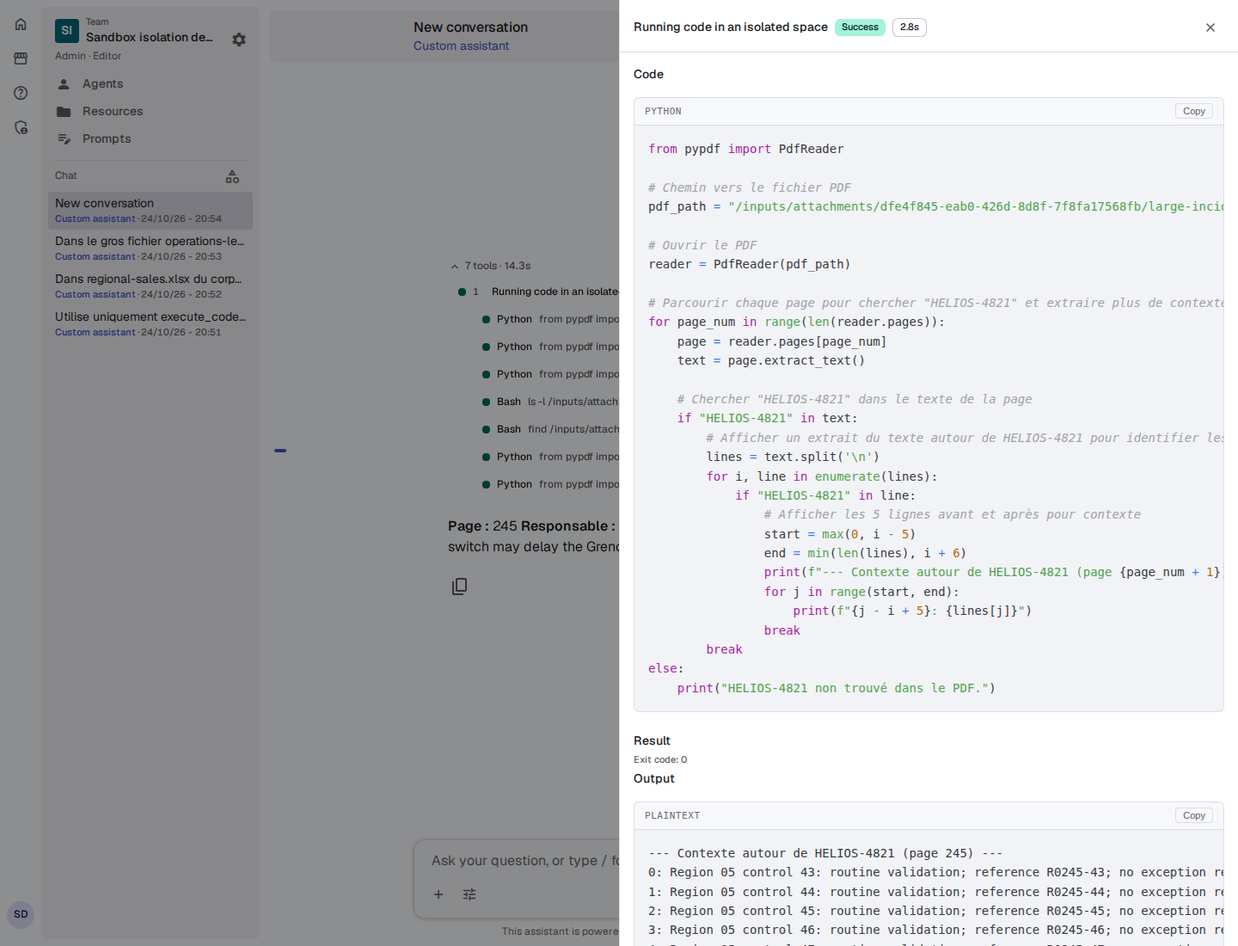
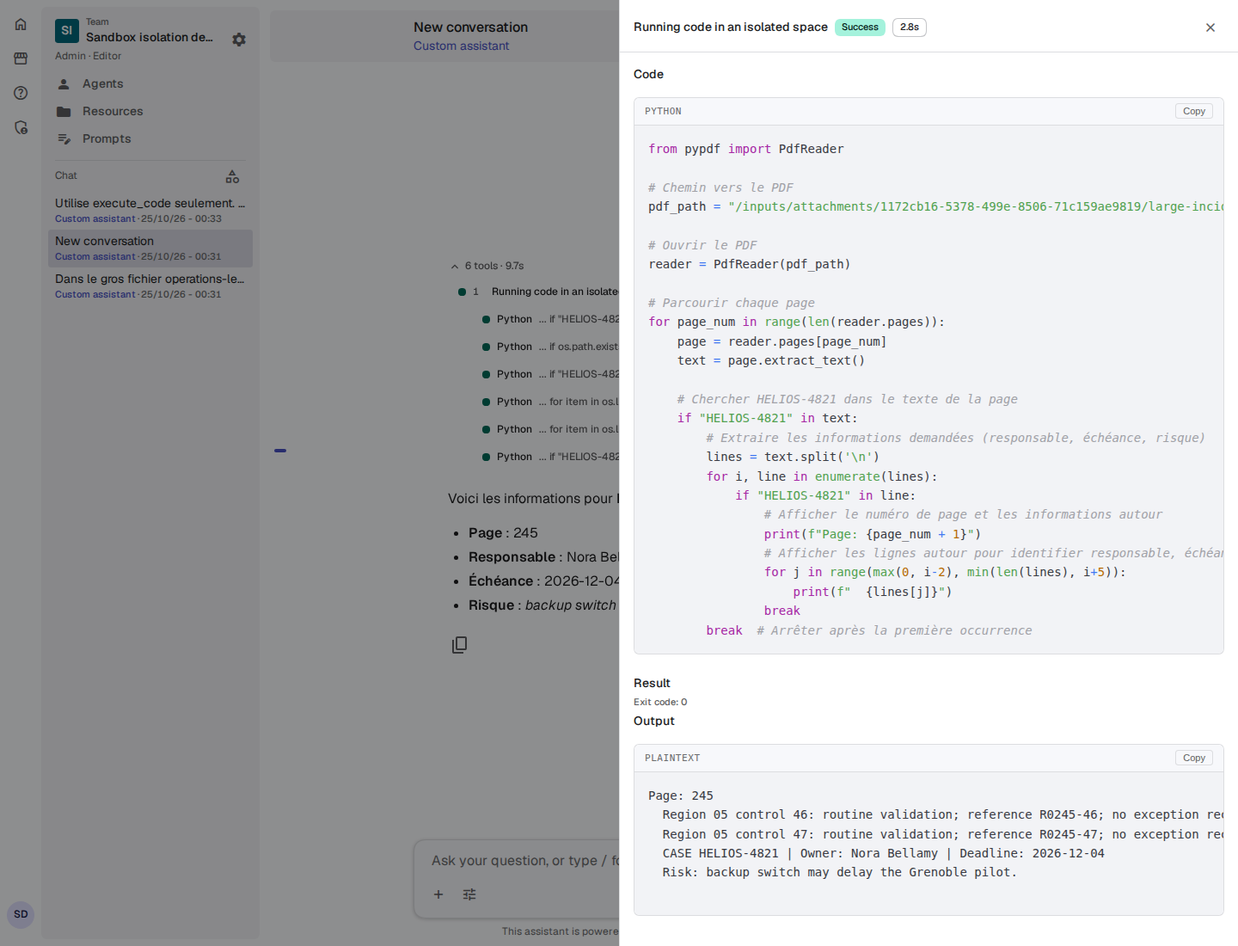
docs: refresh sandbox demo after clean k3d install

diff --git a/docs/agent-sandbox-stack.html b/docs/agent-sandbox-stack.html
@@ -154,7 +154,7 @@ document.addEventListener('DOMContentLoaded', function () {
 </script>
 
 <title>Fred agent sandbox stack</title>
-<section class="slide title" data-part="0"><p class="kicker">Architecture Fred - 24 octobre 2026</p><h1>Exécuter du code agent dans une sandbox isolée</h1><p class="lede">La stack livrée, ses frontières de sécurité, ses coûts, ses mesures et le montage de fichiers.</p><div class="body"><div class="meta"><span>Revue technique · 45 min</span><span>PR #3233</span><span>Prototype k3d gVisor</span></div><div class="chips"><span class="chip c1">fred-sdk</span><span class="chip c2">capability</span><span class="chip c3">fred-runtime</span><span class="chip c4">fred-agents</span><span class="chip c5">sandbox-broker</span><span class="chip c6">control-plane</span><span class="chip c7">frontend</span><span class="chip c8">deploy</span></div></div></section>
+<section class="slide title" data-part="0"><p class="kicker">Architecture Fred - 25 octobre 2026</p><h1>Exécuter du code agent dans une sandbox isolée</h1><p class="lede">La stack livrée, ses frontières de sécurité, ses coûts, ses mesures et le montage de fichiers.</p><div class="body"><div class="meta"><span>Revue technique · 45 min</span><span>PR #3233</span><span>Prototype k3d gVisor</span></div><div class="chips"><span class="chip c1">fred-sdk</span><span class="chip c2">capability</span><span class="chip c3">fred-runtime</span><span class="chip c4">fred-agents</span><span class="chip c5">sandbox-broker</span><span class="chip c6">control-plane</span><span class="chip c7">frontend</span><span class="chip c8">deploy</span></div></div></section>
 <section class="slide" data-part="0"><p class="kicker">Plan</p><h2>Du besoin agent aux décisions de production</h2><p class="lede">Cinq parties pour relier le comportement visible, le code et les limites mesurées.</p><div class="body agenda"><div><div class="n">1</div><h3>Contexte</h3><p>Pourquoi l'agent a besoin d'un exécuteur séparé</p><small>slides 3-5</small></div><div><div class="n">2</div><h3>Architecture</h3><p>Contrats, runtimes, session et coût</p><small>slides 6-12</small></div><div><div class="n">3</div><h3>Code</h3><p>Touchpoints par sous-projet</p><small>slides 13-23</small></div><div><div class="n">4</div><h3>Preuves</h3><p>Sécurité, latence et fichiers</p><small>slides 24-31</small></div><div><div class="n">5</div><h3>Suite</h3><p>Découpage pour la production</p><small>slides 32-38</small></div></div></section>
 <section class="slide divider" data-part="1"><p class="kicker">Partie 1</p><div class="body"><div class="n">1</div><h1>L'agent obtient un outil, pas un accès hôte</h1></div><div class="contents"><span><b>1</b>Avant / après pour le modèle</span><span><b>2</b>Vocabulaire et taille du problème</span></div></section>
 <section class="slide" data-part="1"><p class="kicker">Partie 1</p><h2>Avant, le scratchpad ne pouvait pas exécuter du code</h2><p class="lede">Le changement visible est un outil Bash/Python avec un résultat borné.</p><div class="body"><div class="body duo"><div class="panel"><h3>Avant · Deep scratchpad</h3><pre><span class="line">/scratchpad/ : texte seulement</span><span class="line">Pas de shell ni de Python</span><span class="line">Pas de fichiers exécutables</span></pre></div><div class="panel"><h3>Après · outil agent</h3><pre><span class="line add">execute_code(language, code)</span><span class="line">language = bash | python</span><span class="line">exit_code, stdout, stderr</span><span class="line">ou error_code borné</span></pre></div></div><div class="notes">Le schéma LLM contient uniquement la langue et le code. Identité, URL et jeton restent hors de ses arguments.</div></div><p class="takeaway">La capability est activée par les droits admin habituels de Fred.</p></section>
@@ -173,7 +173,7 @@ document.addEventListener('DOMContentLoaded', function () {
 <section class="slide divider" data-part="3"><p class="kicker">Partie 3</p><div class="body"><div class="n">3</div><h1>Chaque couche a une responsabilité mesurable</h1></div><div class="contents"><span><b>1</b>Contrats et capability</span><span><b>2</b>Broker et isolation</span><span><b>3</b>Admin et déploiement</span></div></section>
 <section class="slide" data-part="3"><p class="kicker">Partie 3</p><h2>Le SDK fixe un contrat indépendant du backend</h2><p class="lede">Une demande Bash/Python, une identité privée, un résultat borné et un port abstrait.</p><div class="body"><div class="grid cols3"><div class="card add"><span class="tag">+</span><b class="name">SandboxRequest</b><small><span class="chip c1">fred-sdk</span> <code>fred_sdk/contracts/sandbox.py:16</code></small><p>language limité; code limité à 16 384 caractères.</p></div><div class="card add"><span class="tag">+</span><b class="name">SandboxSessionIdentity</b><small><span class="chip c1">fred-sdk</span> <code>fred_sdk/contracts/sandbox.py:23</code></small><p>user, team et conversation restent hors du schéma LLM.</p></div><div class="card add"><span class="tag">+</span><b class="name">SandboxResult</b><small><span class="chip c1">fred-sdk</span> <code>fred_sdk/contracts/sandbox.py:32</code></small><p>stdout, stderr, timeout et sortie tronquée.</p></div><div class="card add"><span class="tag">+</span><b class="name">SandboxError</b><small><span class="chip c1">fred-sdk</span> <code>fred_sdk/contracts/sandbox.py:43</code></small><p>Codes bornés, pas de traceback brut vers le modèle.</p></div><div class="card add"><span class="tag">+</span><b class="name">SandboxExecutionPort</b><small><span class="chip c1">fred-sdk</span> <code>fred_sdk/contracts/sandbox.py:61</code></small><p>execute(request, session) rend le backend interchangeable.</p></div><div class="card add"><span class="tag">+</span><b class="name">Tests du contrat</b><small><span class="chip c1">fred-sdk</span> <code>tests/test_sandbox_contract.py</code></small><p>Validation stricte des modèles et du port.</p></div></div></div></section>
 <section class="slide" data-part="3"><p class="kicker">Partie 3</p><h2>La capability expose un outil administré</h2><p class="lede">Le modèle ne choisit ni image, ni runtime, ni ressource.</p><div class="body"><div class="grid cols3"><div class="card add"><span class="tag">+</span><b class="name">CodeSandboxCapability</b><small><span class="chip c2">capability</span> <code>fred_capability_code_sandbox/capability.py:32</code></small><p>ID code_sandbox, TeamScopePolicy.ADMIN_GATED.</p></div><div class="card add"><span class="tag">+</span><b class="name">execute_code</b><small><span class="chip c2">capability</span> <code>fred_capability_code_sandbox/capability.py:46</code></small><p>Arguments language et code uniquement; démarre le workload au premier appel.</p></div><div class="card add"><span class="tag">+</span><b class="name">Session privée</b><small><span class="chip c2">capability</span> <code>fred_capability_code_sandbox/capability.py:55</code></small><p>Dérivée de ctx.identity, jamais demandée au modèle.</p></div><div class="card add"><span class="tag">+</span><b class="name">Résultat outil</b><small><span class="chip c2">capability</span> <code>fred_capability_code_sandbox/capability.py:72</code></small><p>JSON explicite; sortie considérée comme donnée non fiable.</p></div><div class="card add"><span class="tag">+</span><b class="name">Vue automatique /inputs</b><small><span class="chip c2">capability</span> <code>fred_capability_code_sandbox/capability.py</code></small><p>La vue est préparée avant le premier execute_code; /inputs/corpus et /inputs/attachments sont listés automatiquement.</p></div><div class="card add"><span class="tag">+</span><b class="name">Tests capability</b><small><span class="chip c2">capability</span> <code>tests/test_capability.py</code></small><p>Fake port, schéma et préparation de la vue autorisée.</p></div></div></div></section>
-<section class="slide" data-part="3"><p class="kicker">Partie 3 - recherche par code</p><h2>Filtrer dans la sandbox avant de répondre</h2><p class="lede">La consigne demande à l'agent d'écrire du Bash ou du Python dans execute_code et de ne renvoyer que des extraits ciblés.</p><div class="body"><div class="grid cols3"><div class="card add"><h3>Découvrir</h3><p>Un glob ou find restreint les noms et les répertoires. Éviter l'inventaire complet de /inputs.</p></div><div class="card add"><h3>Texte</h3><p>La consigne propose grep -F pour les termes littéraux et Python pour cinq extraits de 240 caractères au plus.</p></div><div class="card add"><h3>Variantes</h3><p>Échapper les termes avant la regex, puis accepter espaces, tirets et underscores; ignorer la casse.</p></div><div class="card sec"><h3>Documents</h3><p>Inspecter pages, paragraphes ou slides un à un. N'imprimer que les extraits trouvés et leur emplacement.</p></div><div class="card sec"><h3>Tables</h3><p>Filtrer lignes et colonnes CSV; ouvrir Excel en lecture seule, puis agréger les seules lignes utiles.</p></div><div class="card same"><h3>Présentation</h3><p>La trace regroupe le code consécutif; chaque ligne commence par Bash ou Python suivi d'un extrait tronqué et garde son détail. Un autre outil coupe le groupe.</p></div></div></div></section>
+<section class="slide" data-part="3"><p class="kicker">Partie 3 - recherche par code</p><h2>Filtrer dans la sandbox avant de répondre</h2><p class="lede">La consigne demande à l'agent d'écrire du Bash ou du Python dans execute_code et de ne renvoyer que des extraits ciblés.</p><div class="body"><div class="grid cols3"><div class="card add"><h3>Découvrir</h3><p>Un glob ou find restreint les noms et les répertoires. Éviter l'inventaire complet de /inputs.</p></div><div class="card add"><h3>Texte</h3><p>La consigne propose grep -F pour les termes littéraux et Python pour cinq extraits de 240 caractères au plus.</p></div><div class="card add"><h3>Variantes</h3><p>Échapper les termes avant la regex, puis accepter espaces, tirets et underscores; ignorer la casse.</p></div><div class="card sec"><h3>Documents</h3><p>Inspecter pages, paragraphes ou slides un à un. N'imprimer que les extraits trouvés et leur emplacement.</p></div><div class="card sec"><h3>Tables</h3><p>Filtrer lignes et colonnes CSV; ouvrir Excel en lecture seule, puis agréger les seules lignes utiles.</p></div><div class="card same"><h3>Présentation</h3><p>La trace regroupe les appels de code consécutifs. Bash ou Python précède une ligne de recherche ou de filtrage; ... signale le code omis. Le détail conserve le code et le résultat complets. Un autre outil coupe le groupe.</p></div></div></div></section>
 <section class="slide" data-part="3"><p class="kicker">Partie 3</p><h2>Le runtime crée un adaptateur HTTP privé</h2><p class="lede">Le runtime garde l’autorisation des outils et ajoute le broker comme service optionnel.</p><div class="body"><div class="grid cols3"><div class="card add"><span class="tag">+</span><b class="name">SandboxHttpAdapter</b><small><span class="chip c3">fred-runtime</span> <code>fred_runtime/sandbox_http.py:23</code></small><p>HTTPS + bearer; validation de réponse et erreurs bornées.</p></div><div class="card add"><span class="tag">+</span><b class="name">Configuration</b><small><span class="chip c3">fred-runtime</span> <code>fred_runtime/sandbox_http.py:59</code></small><p>URL et token viennent de l’environnement du pod.</p></div><div class="card add"><span class="tag">+</span><b class="name">Service binding</b><small><span class="chip c3">fred-runtime</span> <code>fred_runtime/app/agent_app.py:6740</code></small><p>Injecte le port lors de l’activation des capabilities.</p></div><div class="card add"><span class="tag">+</span><b class="name">Runtime context</b><small><span class="chip c3">fred-runtime</span> <code>fred_runtime/runtime_context.py</code></small><p>Transporte l’identité de conversation sans argument LLM.</p></div><div class="card add"><span class="tag">+</span><b class="name">Tests HTTP</b><small><span class="chip c3">fred-runtime</span> <code>tests/test_sandbox_http.py</code></small><p>Vérifient transport et erreurs.</p></div><div class="card same"><span class="tag">=</span><b class="name">Contrat gelé</b><small><span class="chip c3">fred-runtime</span> <code>docs/swift/design/RUNTIME-EXECUTION-CONTRACT.md</code></small><p>Le pod reste l’autorité des droits d’exécution Fred.</p></div></div></div></section>
 <section class="slide" data-part="3"><p class="kicker">Partie 3</p><h2>Le pod agents installe la capability</h2><p class="lede">L’entrée de découverte reste unique pour ReAct, Deep et Graph.</p><div class="body"><div class="grid cols3"><div class="card add"><span class="tag">+</span><b class="name">Dépendance</b><small><span class="chip c4">fred-agents</span> <code>pyproject.toml:25</code></small><p>Le package capability entre dans l’image agents.</p></div><div class="card add"><span class="tag">+</span><b class="name">Source editable</b><small><span class="chip c4">fred-agents</span> <code>pyproject.toml:73</code></small><p>Le workspace relie le package local.</p></div><div class="card add"><span class="tag">+</span><b class="name">Image</b><small><span class="chip c4">fred-agents</span> <code>dockerfiles/Dockerfile-prod</code></small><p>Le Dockerfile copie et installe la capability.</p></div><div class="card add"><span class="tag">+</span><b class="name">Boot invariant</b><small><span class="chip c4">fred-agents</span> <code>tests/test_capability_boot.py:126</code></small><p>Le test de découverte épingle code_sandbox.</p></div><div class="card add"><span class="tag">+</span><b class="name">Configuration runtime</b><small><span class="chip c4">fred-agents</span> <code>dockerfiles/Dockerfile-prod</code></small><p>Endpoint broker et bearer restent côté pod.</p></div></div></div></section>
 <section class="slide" data-part="3"><p class="kicker">Partie 3</p><h2>Le broker borne chaque lease et chaque exécution</h2><p class="lede">Son interface interne est preflight, prepare, execute, dispose.</p><div class="body"><div class="grid cols4"><div class="card add"><span class="tag">+</span><b class="name">API</b><small><span class="chip c5">sandbox-broker</span> <code>sandbox_broker/api.py:33</code></small><p>Bearer, tailles et admission.</p></div><div class="card add"><span class="tag">+</span><b class="name">Backend protocol</b><small><span class="chip c5">sandbox-broker</span> <code>sandbox_broker/backend.py:27</code></small><p>Une lease typée pour trois implémentations.</p></div><div class="card add"><span class="tag">+</span><b class="name">ConversationPool</b><small><span class="chip c5">sandbox-broker</span> <code>sandbox_broker/sessions.py:29</code></small><p>Sérialisation et idle expiry.</p></div><div class="card add"><span class="tag">+</span><b class="name">Process sweep</b><small><span class="chip c5">sandbox-broker</span> <code>sandbox_broker/process_cleanup.py:39</code></small><p>Détruit les descendants détachés avant réusage.</p></div><div class="card add"><span class="tag">+</span><b class="name">Kubernetes Job</b><small><span class="chip c5">sandbox-broker</span> <code>sandbox_broker/kubernetes_backend.py:23</code></small><p>RuntimeClass, deadline et TTL.</p></div><div class="card add"><span class="tag">+</span><b class="name">SIG Agent Sandbox</b><small><span class="chip c5">sandbox-broker</span> <code>sandbox_broker/agent_sandbox_backend.py:21</code></small><p>Claim, pool upstream et expiry.</p></div><div class="card add"><span class="tag">+</span><b class="name">Docker</b><small><span class="chip c5">sandbox-broker</span> <code>sandbox_broker/docker_backend.py:18</code></small><p>Runtime isolé et réseau none.</p></div><div class="card add"><span class="tag">+</span><b class="name">WarmPool</b><small><span class="chip c5">sandbox-broker</span> <code>sandbox_broker/pool.py:21</code></small><p>Capacité non assignée, optionnelle.</p></div></div></div></section>
@@ -189,7 +189,7 @@ document.addEventListener('DOMContentLoaded', function () {
 <section class="slide" data-part="4"><p class="kicker">Partie 4</p><h2>Trois limites séparent le pilote de la prod</h2><p class="lede">Le code et la spec s’accordent sur les principaux risques non résolus.</p><div class="body"><div class="body split"><table><thead><tr><th>Point</th><th>État présent</th><th>Suite</th></tr></thead><tbody><tr><td>Admission distribuée</td><td>1 replica broker</td><td>Coordinator + quotas équipe</td></tr><tr><td>Reprise après crash</td><td>Mapping session en mémoire</td><td>Réattachement ou purge fiable</td></tr><tr><td>Kata sur s3ns</td><td>Non mesuré</td><td>Préflight KVM + benchmark</td></tr><tr><td>CSI sur cluster cible</td><td>Test k3d gVisor seul</td><td>Test volume Kata/gVisor réel</td></tr></tbody></table><div class="notes"><h3>Lecture</h3><p>La CI et le benchmark k3d valident le pilote, pas l’isolation ni le coût à 2 000 utilisateurs sur le cluster cible.</p></div></div><p class="takeaway">Le prochain incrément doit résoudre l’admission et la reprise avant plusieurs brokers.</p></div></section>
 <section class="slide" data-part="4"><p class="kicker">Partie 4 - fichiers</p><h2>Le montage expose une vue, pas le stockage entier</h2><p class="lede">Les fichiers restent dans leurs stores; rclone CSI monte une vue WebDAV en lecture seule.</p><div class="body"><div class="grid cols3"><div class="card sec"><h3>/inputs/corpus</h3><p>Bibliothèques documentaires du propriétaire de la conversation, puis permission READ sur chaque document. Pages de 128 candidats sous deux niveaux fixes block-XX.</p></div><div class="card sec"><h3>/inputs/attachments</h3><p>Originaux des pièces jointes de cette conversation et de cet utilisateur, au plus 32 fichiers. Une nouvelle pièce jointe apparaît après rafraîchissement du cache CSI.</p></div><div class="card sec"><h3>/skills et /work</h3><p>Skills approuvés issus du même stockage que le catalogue / de Fred, montés en lecture seule. Le script Python d'un skill peut lire /inputs et écrire seulement dans le scratch /work.</p></div></div><div class="notes">Knowledge Flow contrôle le propriétaire réel de la bibliothèque, le type DOCUMENT, les droits du document et la session. La vue échoue fermée sans ReBAC; les appels de code simultanés ouvrent la même vue de façon atomique. Chaque fichier est limité à 20 MiB; une vue à 100 MiB lus et 600 requêtes WebDAV par minute.</div></div><p class="takeaway">Le guest ne reçoit ni credentials du corpus ni accès à d'autres conversations.</p></section>
 <section class="slide" data-part="4"><p class="kicker">Partie 4 - exécution</p><h2>Une image Python approuvée étend les skills</h2><p class="lede">Le Dockerfile reste une composition légère de bibliothèques, pas un mécanisme d'isolation.</p><div class="body"><div class="grid cols3"><div class="card add"><h3>Image documents</h3><p>Python 3.12 slim, uv, pypdf, python-docx, python-pptx, openpyxl, pandas et duckdb. Digest poussé dans la registry k3d.</p></div><div class="card add"><h3>Tool minimal</h3><p>execute_code reçoit seulement language et code. Bash et Python peuvent lire les montages et appeler le script d'un skill; le détail affiche code et résultat.</p></div><div class="card mod"><h3>Différence observée</h3><p>Small 4 choisit csv standard et corrige un mauvais calcul Excel au second tour. Medium 3.5 choisit pandas et calcule la marge pondérée juste au premier tour.</p></div></div><div class="notes">Sans indice sur les bibliothèques disponibles, les deux modèles ont raté le premier PDF. Après mise à jour de la description de la capability, ils utilisent pypdf et répondent correctement. Les deux choisissent grep pour un gros fichier texte.</div></div><p class="takeaway">Voir les conversations et détails d'outil dans <a href="swift/ops/agent-sandbox-demo/README.md">le rapport Playwright</a>.</p></section>
-<section class="slide" data-part="4"><p class="kicker">Partie 4 - preuve et limites</p><h2>Le cluster recréé teste la chaîne complète</h2><p class="lede">k3d-up, gVisor, SIG Agent Sandbox, rclone CSI, broker, Fred et conversations réelles.</p><div class="body"><div class="grid cols3"><div class="card add"><h3>À la demande</h3><p>WarmPool SIG à zéro. Une sandbox par conversation active, supprimée après 20 minutes sans exécution par défaut; le réglage est administrable.</p></div><div class="card add"><h3>Lecture prouvée</h3><p>Corpus texte, DOCX, PDF, PPTX, XLSX, CSV, pièce jointe et skill Python ont produit des réponses vérifiables via le montage.</p></div><div class="card mod"><h3>Isolation sondée</h3><p>Large 4 n'a pas trouvé de token Kubernetes, de socket Docker ni de pièce jointe d'une autre conversation; les écritures dans /inputs et /skills ont échoué.</p></div></div><div class="notes">Ces tests locaux ne prouvent pas l'isolation de s3ns ou AKS. Avant production, vérifier le CNI NetworkPolicy, RuntimeClass Kata ou gVisor, CSI, limites de processus et admission sous charge sur chaque cluster cible. Le broker unique et son état en mémoire restent à durcir pour la HA.</div></div><p class="takeaway">Les captures chat et tool detail accompagnent chaque scénario dans le rapport.</p></section>
+<section class="slide" data-part="4"><p class="kicker">Partie 4 - preuve et limites</p><h2>Le cluster recréé teste la chaîne complète</h2><p class="lede">Installation rejouée depuis zéro par make k3d-wipe, k3d-up, k3d-sandbox-smoke, k3d-sandbox-files-demo et k3d-app; puis conversations réelles.</p><div class="body"><div class="grid cols3"><div class="card add"><h3>À la demande</h3><p>WarmPool SIG à zéro. Une sandbox par conversation active, supprimée après 20 minutes sans exécution par défaut; le réglage est administrable.</p></div><div class="card add"><h3>Lecture prouvée</h3><p>Corpus texte, DOCX, PDF, PPTX, XLSX, CSV, pièce jointe et skill Python ont produit des réponses vérifiables via le montage.</p></div><div class="card mod"><h3>Isolation sondée</h3><p>Large 4 n'a pas trouvé de token Kubernetes, de socket Docker ni de pièce jointe d'une autre conversation; les écritures dans /inputs et /skills ont échoué.</p></div></div><div class="notes">Ces tests locaux ne prouvent pas l'isolation de s3ns ou AKS. Avant production, vérifier le CNI NetworkPolicy, RuntimeClass Kata ou gVisor, CSI, limites de processus et admission sous charge sur chaque cluster cible. Le broker unique et son état en mémoire restent à durcir pour la HA.</div></div><p class="takeaway">Les captures chat et tool detail accompagnent chaque scénario dans le rapport.</p></section>
 <section class="slide divider" data-part="5"><p class="kicker">Partie 5</p><div class="body"><div class="n">5</div><h1>Le passage en prod doit rester découpé</h1></div><div class="contents"><span><b>1</b>Deux chemins de livraison</span><span><b>2</b>Choix recommandé et première issue</span></div></section>
 <section class="slide" data-part="5"><p class="kicker">Partie 5</p><h2>Un lot risque d’abord teste le vrai cluster</h2><p class="lede">Le pilote actuel sert d’instrument de mesure avant le multi-replica.</p><div class="body"><figure class="diagram" style="margin:0;min-height:0;display:flex;flex-direction:column;gap:10px;flex:1"><div style="flex:1;min-height:0;display:flex;align-items:center;justify-content:center;background:var(--panel,#ffffff);border:1px solid var(--rule,#d6dde5);padding:14px 18px;box-sizing:border-box"><svg viewBox="0 0 896 104" width="100%" preserveAspectRatio="xMidYMid meet" role="img" style="width:100%;height:100%;max-height:100%;font-family:var(--body,system-ui,sans-serif)"><defs><marker id="arr-same" markerWidth="10" markerHeight="8" refX="9" refY="4" orient="auto-start-reverse" markerUnits="userSpaceOnUse"><path d="M0,0 L10,4 L0,8 z" style="fill:var(--ink-2,#56687a)"/></marker><marker id="arr-add" markerWidth="10" markerHeight="8" refX="9" refY="4" orient="auto-start-reverse" markerUnits="userSpaceOnUse"><path d="M0,0 L10,4 L0,8 z" style="fill:var(--add,#177245)"/></marker><marker id="arr-mod" markerWidth="10" markerHeight="8" refX="9" refY="4" orient="auto-start-reverse" markerUnits="userSpaceOnUse"><path d="M0,0 L10,4 L0,8 z" style="fill:var(--mod,#a25f00)"/></marker><marker id="arr-del" markerWidth="10" markerHeight="8" refX="9" refY="4" orient="auto-start-reverse" markerUnits="userSpaceOnUse"><path d="M0,0 L10,4 L0,8 z" style="fill:var(--del,#b42318)"/></marker><marker id="arr-ink" markerWidth="10" markerHeight="8" refX="9" refY="4" orient="auto-start-reverse" markerUnits="userSpaceOnUse"><path d="M0,0 L10,4 L0,8 z" style="fill:var(--ink,#14202c)"/></marker></defs><path d="M162.0,52.0 C189.0,52.0 189.0,52.0 216.0,52.0" marker-end="url(#arr-same)" style="fill:none;stroke:var(--ink-2,#56687a);stroke-width:2"/><path d="M420.0,52.0 C447.0,52.0 447.0,52.0 474.0,52.0" marker-end="url(#arr-same)" style="fill:none;stroke:var(--ink-2,#56687a);stroke-width:2"/><path d="M669.7,52.0 C696.7,52.0 696.7,52.0 723.7,52.0" marker-end="url(#arr-same)" style="fill:none;stroke:var(--ink-2,#56687a);stroke-width:2"/><rect x="12.0" y="12.0" width="150.0" height="80.0" rx="3" style="fill:var(--mod-soft,#fbe9c6);stroke:var(--mod,#a25f00);stroke-width:2"/><text x="87.0" y="38.0" text-anchor="middle" style="fill:var(--ink,#14202c);font-size:15px;font-weight:600">Lot 0</text><text x="87.0" y="57.0" text-anchor="middle" style="fill:var(--ink,#14202c);font-size:15px;font-weight:600">Kata/CNI s3ns</text><g class="chip"><rect x="60.6" y="64.0" width="52.8" height="16" rx="3" style="fill:color-mix(in srgb,var(--c8,#56687a) 16%,var(--panel,#ffffff));stroke:color-mix(in srgb,var(--c8,#56687a) 45%,transparent)"/><text x="87.0" y="76.0" text-anchor="middle" style="fill:color-mix(in srgb,var(--c8,#56687a) 80%,var(--ink,#14202c));font:600 11px var(--mono,ui-monospace,monospace)">deploy</text></g><rect x="144.0" y="4.0" width="20" height="18" rx="2" style="fill:var(--mod,#a25f00)"/><text x="154.0" y="17.5" text-anchor="middle" style="fill:#fff;font:700 13px var(--mono,ui-monospace,monospace)">~</text><rect x="226.0" y="12.0" width="194.0" height="80.0" rx="3" style="fill:var(--add-soft,#d7f0e2);stroke:var(--add,#177245);stroke-width:2"/><text x="323.0" y="38.0" text-anchor="middle" style="fill:var(--ink,#14202c);font-size:15px;font-weight:600">Lot 1</text><text x="323.0" y="57.0" text-anchor="middle" style="fill:var(--ink,#14202c);font-size:15px;font-weight:600">admission distribuée</text><g class="chip"><rect x="269.4" y="64.0" width="107.2" height="16" rx="3" style="fill:color-mix(in srgb,var(--c5,#56687a) 16%,var(--panel,#ffffff));stroke:color-mix(in srgb,var(--c5,#56687a) 45%,transparent)"/><text x="323.0" y="76.0" text-anchor="middle" style="fill:color-mix(in srgb,var(--c5,#56687a) 80%,var(--ink,#14202c));font:600 11px var(--mono,ui-monospace,monospace)">sandbox-broker</text></g><rect x="402.0" y="4.0" width="20" height="18" rx="2" style="fill:var(--add,#177245)"/><text x="412.0" y="17.5" text-anchor="middle" style="fill:#fff;font:700 13px var(--mono,ui-monospace,monospace)">+</text><rect x="484.0" y="12.0" width="185.7" height="80.0" rx="3" style="fill:var(--add-soft,#d7f0e2);stroke:var(--add,#177245);stroke-width:2"/><text x="576.9" y="38.0" text-anchor="middle" style="fill:var(--ink,#14202c);font-size:15px;font-weight:600">Lot 2</text><text x="576.9" y="57.0" text-anchor="middle" style="fill:var(--ink,#14202c);font-size:15px;font-weight:600">reprise de sessions</text><g class="chip"><rect x="523.2" y="64.0" width="107.2" height="16" rx="3" style="fill:color-mix(in srgb,var(--c5,#56687a) 16%,var(--panel,#ffffff));stroke:color-mix(in srgb,var(--c5,#56687a) 45%,transparent)"/><text x="576.9" y="76.0" text-anchor="middle" style="fill:color-mix(in srgb,var(--c5,#56687a) 80%,var(--ink,#14202c));font:600 11px var(--mono,ui-monospace,monospace)">sandbox-broker</text></g><rect x="651.7" y="4.0" width="20" height="18" rx="2" style="fill:var(--add,#177245)"/><text x="661.7" y="17.5" text-anchor="middle" style="fill:#fff;font:700 13px var(--mono,ui-monospace,monospace)">+</text><rect x="733.7" y="12.0" width="150.0" height="80.0" rx="3" style="fill:var(--add-soft,#d7f0e2);stroke:var(--add,#177245);stroke-width:2"/><text x="808.7" y="38.0" text-anchor="middle" style="fill:var(--ink,#14202c);font-size:15px;font-weight:600">Lot 3</text><text x="808.7" y="57.0" text-anchor="middle" style="fill:var(--ink,#14202c);font-size:15px;font-weight:600">rollout équipe</text><g class="chip"><rect x="758.5" y="64.0" width="100.4" height="16" rx="3" style="fill:color-mix(in srgb,var(--c6,#56687a) 16%,var(--panel,#ffffff));stroke:color-mix(in srgb,var(--c6,#56687a) 45%,transparent)"/><text x="808.7" y="76.0" text-anchor="middle" style="fill:color-mix(in srgb,var(--c6,#56687a) 80%,var(--ink,#14202c));font:600 11px var(--mono,ui-monospace,monospace)">control-plane</text></g><rect x="865.7" y="4.0" width="20" height="18" rx="2" style="fill:var(--add,#177245)"/><text x="875.7" y="17.5" text-anchor="middle" style="fill:#fff;font:700 13px var(--mono,ui-monospace,monospace)">+</text></svg></div><figcaption style="display:flex;justify-content:space-between;gap:24px;align-items:baseline;font-size:16px;color:var(--ink-2,#56687a)"><span style="max-width:80ch">Le test du vrai cluster tranche la frontière d’isolation et le coût avant le code de scale-out.</span><span class="legend" style="display:flex;flex-wrap:wrap;gap:14px;font-size:13px;color:var(--ink-2,#56687a)"><span style="white-space:nowrap"><i style="display:inline-block;width:11px;height:11px;margin-right:6px;vertical-align:-1px;background:var(--add-soft,#d7f0e2);border:1.5px solid var(--add,#177245)"></i>new</span><span style="white-space:nowrap"><i style="display:inline-block;width:11px;height:11px;margin-right:6px;vertical-align:-1px;background:var(--mod-soft,#fbe9c6);border:1.5px solid var(--mod,#a25f00)"></i>changed</span><span style="white-space:nowrap"><b>→</b> preuve requise avant le lot suivant</span></span></figcaption></figure>
 <div class="proscons"><div class="pro"><h3>Pour</h3><ul><li>Décision Kata/gVisor fondée sur des mesures.</li><li>Évite un coordinateur inutile si le runtime ne tient pas.</li></ul></div><div class="con"><h3>Contre</h3><ul><li>Lot 0 ne livre pas de fonction produit.</li><li>Bloque l’échelle tant que le cluster cible n’est pas validé.</li></ul></div></div></div></section>

diff --git a/docs/swift/ops/agent-sandbox-demo/README.md b/docs/swift/ops/agent-sandbox-demo/README.md
@@ -1,12 +1,11 @@
 # Agent sandbox: k3d browser evidence
 
-These captures show real Fred conversations on `k3d-fred-secondary` on 24 October 2026. The test agent had only `code_sandbox` enabled. The guest used gVisor, SIG Agent Sandbox with a zero-replica WarmPool, and read-only rclone CSI mounts. The corpus and attachment files are synthetic. Each chat capture shows the grouped code activity; each detail capture shows the actual command and result.
+These captures show real Fred conversations on `k3d-fred-secondary` on 24-25 October 2026. The test agent had only `code_sandbox` enabled. The guest used gVisor, SIG Agent Sandbox with a zero-replica WarmPool, and read-only rclone CSI mounts. The corpus and attachment files are synthetic. The skill, PDF attachment and large corpus captures were refreshed on 25 October after the clean install and UI update. Each chat capture shows grouped code activity with useful one-line excerpts and `...` where code is omitted; each detail capture shows the actual command and result.
 
-The cluster was deleted and rebuilt with the factory `make k3d-up`, `make k3d-sandbox-up`, `make k3d-sandbox-files-demo` and `make k3d-app` targets. `make k3d-sandbox-smoke` passed Bash, Python, gVisor, zero warm replicas and a read-only CSI file read. No Kubernetes resource name or persistent volume was edited by hand.
+The cluster was deleted and rebuilt with the factory `make k3d-wipe`, `make k3d-up`, `make k3d-sandbox-smoke`, `make k3d-sandbox-files-demo` and `make k3d-app` targets. The smoke passed Bash, Python, gVisor, zero warm replicas and a read-only CSI file read. No Kubernetes resource name or persistent volume was edited by hand.
 
 | Scenario | Observed result | Chat | Tool detail |
 | --- | --- | --- | --- |
-| Grouped code trace | Consecutive calls form one expandable activity. Each row starts with Bash or Python and shows an ellipsized command preview. | [Narrow layout](73-code-preview-narrow.png) | [Selected command](73-code-preview-detail.png) |
 | Mounted platform skill and script | Bash listed the seven platform skills, read `tabular-evidence/SKILL.md`, and ran its mounted Python script against a CSV in the team corpus. All four commands succeeded after the concurrent view fix; totals were operations 75, research 120 and support 40. | [Chat and grouped calls](86-skill_clean-chat.png) | [Bash skill listing](86-skill_clean-ls-detail.png), [script and result](86-skill_clean-detail.png) |
 | Mounted skills, read-only | The agent read the platform `tabular-evidence` skill's Markdown in the same conversation, then a write under `/skills` failed with `EROFS` (errno 30). | [Chat](85-skill-readonly-chat.png) | [Denied write](85-skill-readonly-detail.png) |
 | Excel from team corpus | Python `openpyxl` opened the original workbook read-only, filtered Lyon and Paris, and returned weighted margins of 41.22% and 38.02%. | [Chat](81-excel-chat.png) | [Python and result](81-excel-detail.png) |
